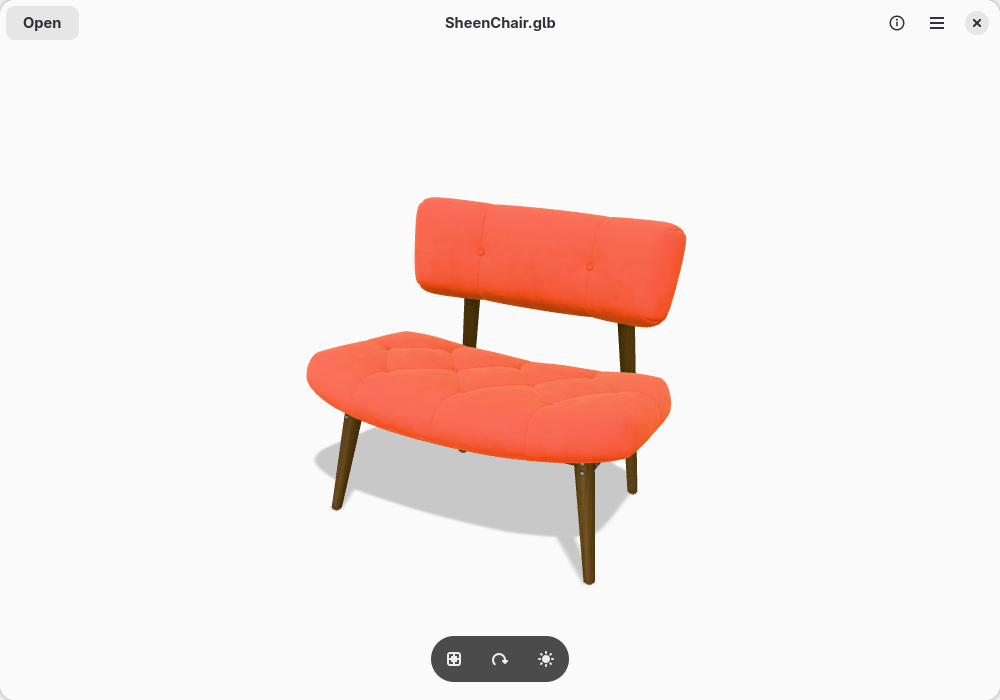
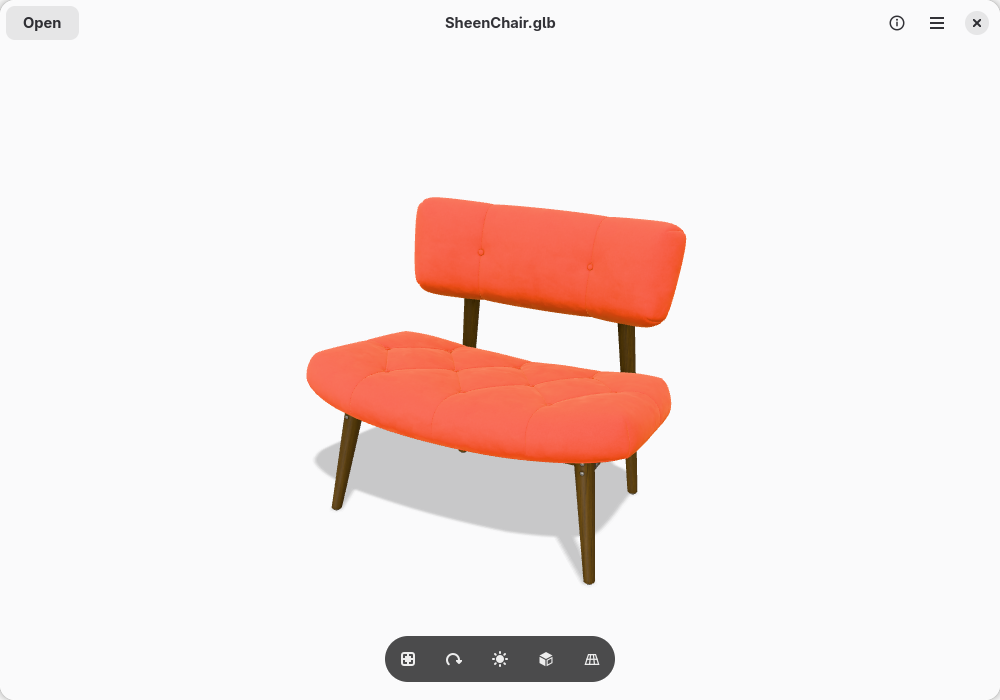
Give lighting, display and grid a button each; add axes
The view options button becomes three: Lighting, Display, and Grid and Axes, which has a
new Show Axes toggle (X red and Z blue across the floor, Y green up through the model).
Show Frame Rate moves to the main menu. The screenshots show the new controls.

Changed region(s): [[0.372, 0.9, 0.465, 0.99], [0.496, 0.9, 0.62, 0.99]]

diff --git a/src/render/mod.rs b/src/render/mod.rs
@@ -3,7 +3,7 @@
 
 //! The renderer: draws the model in the viewer's GL area much as three.js drew it before.
 //! Metallic-roughness PBR lit by an environment and a key light, a shadow caught by an
-//! invisible floor, an optional grid and wireframe; 4× multisampled, on a transparent
+//! invisible floor, an optional grid, axes and wireframe; 4× multisampled, on a transparent
 //! background so the window's own shows through. It draws when asked, never on its own.
 
 mod environment;
@@ -47,6 +47,7 @@ pub struct Settings {
     pub lighting: Lighting,
     pub display: Display,
     pub grid: bool,
+    pub axes: bool,
     pub dark: bool,
     /// The accent colour, linear RGB: the wireframe's
     pub accent: [f32; 3],
@@ -60,6 +61,7 @@ impl Default for Settings {
             lighting: Lighting::Studio,
             display: Display::Shaded,
             grid: false,
+            axes: false,
             dark: false,
             accent: crate::model::srgb_hex(0x3584e4),
             scale: 1.0,
@@ -105,11 +107,46 @@ struct Target {
     height: i32,
 }
 
-struct Grid {
+/// Lines sized to the model: the grid, or the axes. Made again for each model.
+struct Lines {
     vao: glow::VertexArray,
     buffer: glow::Buffer,
     count: i32,
-    radius: f32,
+}
+
+impl Lines {
+    /// Each vertex a position and a linear RGBA colour.
+    fn new(gl: &glow::Context, vertices: &[([f32; 3], [f32; 4])]) -> Self {
+        let data: Vec<[f32; 7]> = vertices.iter().map(|&([x, y, z], [r, g, b, a])| [x, y, z, r, g, b, a]).collect();
+        unsafe {
+            let vao = gl.create_vertex_array().expect("vertex array");
+            gl.bind_vertex_array(Some(vao));
+            let buffer = gl.create_buffer().expect("buffer");
+            gl.bind_buffer(glow::ARRAY_BUFFER, Some(buffer));
+            gl.buffer_data_u8_slice(glow::ARRAY_BUFFER, bytemuck::cast_slice(&data), glow::STATIC_DRAW);
+            gl.enable_vertex_attrib_array(attribute::POSITION);
+            gl.vertex_attrib_pointer_f32(attribute::POSITION, 3, glow::FLOAT, false, 28, 0);
+            gl.enable_vertex_attrib_array(attribute::COLOR);
+            gl.vertex_attrib_pointer_f32(attribute::COLOR, 4, glow::FLOAT, false, 28, 12);
+            gl.bind_vertex_array(None);
+            Self { vao, buffer, count: vertices.len() as i32 }
+        }
+    }
+
+    fn destroy(self, gl: &glow::Context) {
+        unsafe {
+            gl.delete_vertex_array(self.vao);
+            gl.delete_buffer(self.buffer);
+        }
+    }
+}
+
+/// The grid's cells, a round number about a tenth of the model's size wide, and how far it
+/// reaches from the middle.
+fn grid_size(radius: f32) -> (f32, usize, f32) {
+    let cell = 10f32.powf((radius / 2.0).log10().floor());
+    let divisions = ((radius * 3.0 / cell).ceil() as usize * 2).clamp(2, 2000);
+    (cell, divisions, divisions as f32 * cell / 2.0)
 }
 
 pub struct Renderer {
@@ -123,7 +160,8 @@ pub struct Renderer {
     empty: glow::VertexArray,
     white: glow::Texture,
     floor: (glow::VertexArray, glow::Buffer),
-    grid: Option<Grid>,
+    grid: Option<Lines>,
+    axes: Option<Lines>,
     shadow: (glow::Framebuffer, glow::Texture),
     /// The shadow is drawn again only when the model, its pose or the light changes
     shadow_dirty: bool,
@@ -262,6 +300,7 @@ impl Renderer {
                 white,
                 floor: (floor_vao, floor_buffer),
                 grid: None,
+                axes: None,
                 shadow: (shadow_framebuffer, shadow_texture),
                 shadow_dirty: true,
                 shadow_lighting: None,
@@ -278,7 +317,7 @@ impl Renderer {
     }
 
     /// Puts `model` on the GPU, in place of any other. `radius` and `height` are of its
-    /// bounding sphere and box: the shadow, floor and grid are sized to them.
+    /// bounding sphere and box: the shadow, floor, grid and axes are sized to them.
     pub fn set_model(&mut self, model: &Model, radius: f32, height: f32) {
         self.clear_model();
         let gpu = GpuModel::new(&self.gl, model, self.limits);
@@ -294,6 +333,9 @@ impl Renderer {
             self.programs.get(&self.gl, key);
         }
         self.model = Some(gpu);
+        for lines in [self.grid.take(), self.axes.take()].into_iter().flatten() {
+            lines.destroy(&self.gl);
+        }
         self.radius = radius;
         self.height = height;
         self.shadow_dirty = true;
@@ -405,6 +447,9 @@ impl Renderer {
                 if settings.grid {
                     self.draw_grid(settings);
                 }
+                if settings.axes {
+                    self.draw_axes();
+                }
                 if shaded {
                     self.draw_blended(frame, camera);
                 }
@@ -484,9 +529,8 @@ impl Renderer {
                 gl.delete_renderbuffer(target.color);
                 gl.delete_renderbuffer(target.depth);
             }
-            if let Some(grid) = self.grid.take() {
-                gl.delete_vertex_array(grid.vao);
-                gl.delete_buffer(grid.buffer);
+            for lines in [self.grid.take(), self.axes.take()].into_iter().flatten() {
+                lines.destroy(gl);
             }
             gl.delete_framebuffer(self.shadow.0);
             gl.delete_texture(self.shadow.1);
@@ -756,51 +800,42 @@ impl Renderer {
     }
 
     unsafe fn draw_grid(&mut self, settings: &Settings) {
-        self.ensure_grid();
-        let gl = &self.gl;
-        let Some(grid) = &self.grid else { return };
-        let program = self.programs.get(gl, Key::new(Kind::Solid));
-        let color = if settings.dark { [1.0, 1.0, 1.0, 0.14] } else { [0.0, 0.0, 0.0, 0.12] };
-        unsafe {
-            gl.use_program(Some(program.program));
-            gl.uniform_matrix_4_f32_slice(program.model.as_ref(), false, &Mat4::IDENTITY.to_cols_array());
-            gl.uniform_4_f32_slice(program.color.as_ref(), &color);
-            gl.uniform_1_i32(program.vertex_colors.as_ref(), 0);
-            draw(gl, grid.vao, glow::LINES, grid.count, None);
+        if self.grid.is_none() {
+            let (cell, divisions, half) = grid_size(self.radius);
+            let mut vertices = Vec::with_capacity((divisions + 1) * 4);
+            for i in 0..=divisions {
+                let k = -half + i as f32 * cell;
+                for position in [[-half, 0.0, k], [half, 0.0, k], [k, 0.0, -half], [k, 0.0, half]] {
+                    vertices.push((position, [1.0; 4]));
+                }
+            }
+            self.grid = Some(Lines::new(&self.gl, &vertices));
         }
+        let color = if settings.dark { [1.0, 1.0, 1.0, 0.14] } else { [0.0, 0.0, 0.0, 0.12] };
+        unsafe { draw_lines(&self.gl, &mut self.programs, self.grid.as_ref().unwrap(), color) };
     }
 
-    /// A round number of cells about a tenth of the model's size wide.
-    fn ensure_grid(&mut self) {
-        if self.grid.as_ref().is_some_and(|g| g.radius == self.radius) {
-            return;
+    /// X red and Z blue across the floor, as far as the grid reaches, and Y green up from the
+    /// middle to a little over the model: its own axes, though it stands on the floor, centred.
+    unsafe fn draw_axes(&mut self) {
+        if self.axes.is_none() {
+            let (_, _, half) = grid_size(self.radius);
+            let color = |hex| {
+                let [r, g, b] = crate::model::srgb_hex(hex);
+                [r, g, b, 1.0]
+            };
+            let (x, y, z) = (color(0xe01b24), color(0x2ec27e), color(0x3584e4));
+            let vertices = [
+                ([-half, 0.0, 0.0], x),
+                ([half, 0.0, 0.0], x),
+                ([0.0, 0.0, 0.0], y),
+                ([0.0, self.height + self.radius * 0.5, 0.0], y),
+                ([0.0, 0.0, -half], z),
+                ([0.0, 0.0, half], z),
+            ];
+            self.axes = Some(Lines::new(&self.gl, &vertices));
         }
-        let gl = &self.gl;
-        let radius = self.radius;
-        let cell = 10f32.powf((radius / 2.0).log10().floor());
-        let divisions = ((radius * 3.0 / cell).ceil() as usize * 2).clamp(2, 2000);
-        let size = divisions as f32 * cell;
-        let half = size / 2.0;
-        let mut vertices: Vec<[f32; 3]> = Vec::with_capacity((divisions + 1) * 4);
-        for i in 0..=divisions {
-            let k = -half + i as f32 * cell;
-            vertices.extend([[-half, 0.0, k], [half, 0.0, k], [k, 0.0, -half], [k, 0.0, half]]);
-        }
-        unsafe {
-            if let Some(old) = self.grid.take() {
-                gl.delete_vertex_array(old.vao);
-                gl.delete_buffer(old.buffer);
-            }
-            let vao = gl.create_vertex_array().expect("vertex array");
-            gl.bind_vertex_array(Some(vao));
-            let buffer = gl.create_buffer().expect("buffer");
-            gl.bind_buffer(glow::ARRAY_BUFFER, Some(buffer));
-            gl.buffer_data_u8_slice(glow::ARRAY_BUFFER, bytemuck::cast_slice(&vertices), glow::STATIC_DRAW);
-            gl.enable_vertex_attrib_array(attribute::POSITION);
-            gl.vertex_attrib_pointer_f32(attribute::POSITION, 3, glow::FLOAT, false, 0, 0);
-            gl.bind_vertex_array(None);
-            self.grid = Some(Grid { vao, buffer, count: vertices.len() as i32, radius });
-        }
+        unsafe { draw_lines(&self.gl, &mut self.programs, self.axes.as_ref().unwrap(), [1.0, 1.0, 1.0, 0.85]) };
     }
 }
 
@@ -811,5 +846,17 @@ unsafe fn draw(gl: &glow::Context, vao: glow::VertexArray, mode: u32, count: i32
             Some(kind) => gl.draw_elements(mode, count, kind, 0),
             None => gl.draw_arrays(mode, 0, count),
         }
+    }
+}
+
+/// Lines in their own colours, times `color`.
+unsafe fn draw_lines(gl: &glow::Context, programs: &mut Programs, lines: &Lines, color: [f32; 4]) {
+    let program = programs.get(gl, Key::new(Kind::Solid));
+    unsafe {
+        gl.use_program(Some(program.program));
+        gl.uniform_matrix_4_f32_slice(program.model.as_ref(), false, &Mat4::IDENTITY.to_cols_array());
+        gl.uniform_4_f32_slice(program.color.as_ref(), &color);
+        gl.uniform_1_i32(program.vertex_colors.as_ref(), 1);
+        draw(gl, lines.vao, glow::LINES, lines.count, None);
     }
 }

diff --git a/src/window.rs b/src/window.rs
@@ -2,8 +2,8 @@
 // SPDX-FileCopyrightText: 2026 Jack Tully
 
 //! A window shows one model: the viewer under a header bar, its controls floating over it,
-//! and its properties in a sidebar. The view settings (lighting, display mode, grid, rotation)
-//! are the app's GSettings, so every window follows the same ones.
+//! and its properties in a sidebar. The view settings (lighting, display mode, grid, axes,
+//! rotation) are the app's GSettings, so every window follows the same ones.
 
 use std::cell::{Cell, RefCell};
 
@@ -18,7 +18,8 @@ use crate::model::{self, Stats, srgb_to_linear};
 use crate::render::{Display, Lighting};
 use crate::viewer::Viewer;
 
-const VIEW_SETTINGS: [&str; 5] = ["auto-rotate", "lighting", "display-mode", "show-grid", "show-frame-rate"];
+const VIEW_SETTINGS: [&str; 6] =
+    ["auto-rotate", "lighting", "display-mode", "show-grid", "show-axes", "show-frame-rate"];
 const MODEL_ACTIONS: [&str; 5] = ["reset-view", "copy-image", "save-image", "show-in-files", "properties"];
 
 mod imp {
@@ -336,6 +337,7 @@ impl Window {
             "lighting" => viewer.set_lighting(Lighting::from_name(&settings.string(key))),
             "display-mode" => viewer.set_display(Display::from_name(&settings.string(key))),
             "show-grid" => viewer.set_grid(settings.boolean(key)),
+            "show-axes" => viewer.set_axes(settings.boolean(key)),
             "show-frame-rate" => self.show_frame_rate(settings.boolean(key)),
             _ => {}
         }

diff --git a/src/viewer.rs b/src/viewer.rs
@@ -408,6 +408,10 @@ impl Viewer {
         self.update_settings(|s| s.grid = grid);
     }
 
+    pub fn set_axes(&self, axes: bool) {
+        self.update_settings(|s| s.axes = axes);
+    }
+
     /// The style's darkness, and the accent colour as linear RGB.
     pub fn set_theme(&self, dark: bool, accent: [f32; 3]) {
         self.update_settings(|s| {

diff --git a/README.md b/README.md
@@ -17,10 +17,10 @@ Open a model, turn it around, see it in good light. A simple, native 3D viewer f
 - **Opens the common formats:** glTF, GLB, OBJ, STL, PLY, FBX and 3MF. Open one from Files,
   drag it into the window, or press **Open**.
 - **Moves smoothly:** it draws at your display's full refresh rate, 240 Hz included, and only
-  while something moves. **Show Frame Rate** in the view options shows it.
+  while something moves. **Show Frame Rate** in the main menu shows it.
 - **Lights it nicely:** Studio, Soft, Sunlight or Dramatic lighting, with a soft shadow.
 - **Shows how it's built:** switch to wireframe, or draw it over the shaded model, and add
-  a floor grid.
+  a floor grid and axes.
 - **Plays its animations:** play, pause, scrub, and pick between them.
 - **Spins on its own,** slowly, like a turntable.
 - **Tells you about it:** size, vertices, triangles, meshes, materials and file details.
@@ -31,7 +31,7 @@ It fits right in: light and dark styles, your accent colour, and windows down to
 <table>
   <tr>
     <td><img src="data/screenshots/fox.png" alt="An animated fox with the properties sidebar open"></td>
-    <td><img src="data/screenshots/lantern.png" alt="A lantern drawn as a wireframe over its shaded surface, on a grid"></td>
+    <td><img src="data/screenshots/lantern.png" alt="A lantern drawn as a wireframe over its shaded surface, on a grid with axes"></td>
   </tr>
 </table>
 
